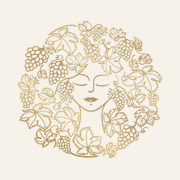
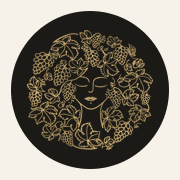
T1 (spec 018): ícono de la web con el isotipo sobre círculo casi negro; spec implementada
Claude-Session: https://claude.ai/code/session_0121hkByLkvRCkxcCrMvdbNS

diff --git a/tests/unit/icono.test.ts b/tests/unit/icono.test.ts
@@ -14,6 +14,12 @@ function tamanosIco(ico: Buffer) {
   return Array.from({ length: ico.readUInt16LE(4) }, (_, i) => ico[6 + i * 16] || 256);
 }
 
+/** RGBA de un píxel; si es transparente, solo el alfa. */
+async function pixel(archivo: string, x: number, y: number) {
+  const { data } = await sharp(archivo).ensureAlpha().extract({ left: x, top: y, width: 1, height: 1 }).raw().toBuffer({ resolveWithObject: true });
+  return data[3] === 0 ? [0] : [...data];
+}
+
 describe("ícono de la web", () => {
   it("favicon.ico no es el de Next.js y trae 16, 32 y 48 px", () => {
     const ico = readFileSync(join(app, "favicon.ico"));
@@ -21,16 +27,20 @@ describe("ícono de la web", () => {
     expect(tamanosIco(ico).sort((a, b) => a - b)).toEqual([16, 32, 48]);
   });
 
-  it("icon.png: 512 px, cuadrado y transparente", async () => {
-    const m = await sharp(join(app, "icon.png")).metadata();
+  it("icon.png: 512 px, el isotipo sobre un círculo casi negro con las esquinas transparentes", async () => {
+    const archivo = join(app, "icon.png");
+    const m = await sharp(archivo).metadata();
     expect([m.width, m.height, m.hasAlpha]).toEqual([512, 512, true]);
+    expect(await pixel(archivo, 2, 2)).toEqual([0]);
+    // Borde del círculo (fuera del dibujo): casi negro.
+    expect(await pixel(archivo, 256, 12)).toEqual([0x1b, 0x1a, 0x17, 255]);
   });
 
-  it("apple-icon.png: 180 px, cuadrado y sin transparencia (fondo crema)", async () => {
+  it("apple-icon.png: 180 px, sin transparencia: el círculo sobre crema", async () => {
     const archivo = join(app, "apple-icon.png");
     const m = await sharp(archivo).metadata();
     expect([m.width, m.height]).toEqual([180, 180]);
-    const { data } = await sharp(archivo).ensureAlpha().extract({ left: 0, top: 0, width: 1, height: 1 }).raw().toBuffer({ resolveWithObject: true });
-    expect([...data]).toEqual([0xf6, 0xf2, 0xe9, 255]);
+    expect(await pixel(archivo, 0, 0)).toEqual([0xf6, 0xf2, 0xe9, 255]);
+    expect(await pixel(archivo, 90, 20)).toEqual([0x1b, 0x1a, 0x17, 255]);
   });
 });

diff --git a/tests/e2e/icono.spec.ts b/tests/e2e/icono.spec.ts
@@ -1,0 +1,17 @@
+import { expect, test } from "@playwright/test";
+
+// Spec 018, CA-1: la carta enlaza el ícono de la marca (pestaña, Android e iPhone).
+test("la carta enlaza favicon, icon y apple-touch-icon, y responden", async ({ page, request }) => {
+  await page.goto("/");
+  const enlaces = await page.locator('head link[rel="icon"], head link[rel="apple-touch-icon"]').evaluateAll((ls) =>
+    ls.map((l) => ({ rel: l.getAttribute("rel"), href: (l as HTMLLinkElement).href })),
+  );
+  expect(enlaces.some((e) => e.rel === "icon" && /favicon\.ico/.test(e.href))).toBe(true);
+  expect(enlaces.some((e) => e.rel === "icon" && /icon\.png/.test(e.href))).toBe(true);
+  expect(enlaces.some((e) => e.rel === "apple-touch-icon" && /apple-icon\.png/.test(e.href))).toBe(true);
+  for (const { href } of enlaces) {
+    const r = await request.get(href);
+    expect(r.status(), href).toBe(200);
+    expect(r.headers()["content-type"]).toMatch(/image\//);
+  }
+});

diff --git a/specs/018-icono/design.md b/specs/018-icono/design.md
@@ -5,14 +5,16 @@
 - `app/icon.png` (512 px) y `app/apple-icon.png` (180 px): Next.js agrega solo las
   etiquetas `<link rel="icon">` y `<link rel="apple-touch-icon">`.
 - Se generan con `npm run icono` (`scripts/icono.mjs`, sharp) a partir del isotipo
-  `assets/marca/isotipo.png` (PNG transparente, 1200 px): recortado a su dibujo y
-  centrado en un cuadrado. Pestaña e `icon.png`: fondo transparente. `apple-icon.png`:
-  sobre crema (#F6F2E9) con margen del 10 % (iOS rellena la transparencia de negro).
+  `assets/marca/isotipo.png` (PNG transparente, 1200 px): recortado a su dibujo, al 80 %
+  de un círculo casi negro (#1B1A17). Pestaña e `icon.png`: esquinas transparentes.
+  `apple-icon.png`: el círculo sobre crema (#F6F2E9) con margen del 6 % (iOS rellena la
+  transparencia de negro). PNG con paleta para que pesen poco.
   Los archivos generados quedan en el repositorio.
 
 ## Riesgos
-- El isotipo es un dibujo de líneas finas: a 16 px se ve como un círculo dorado (se
-  reconoce por la forma y el color, no por el detalle).
+- El isotipo es un dibujo de líneas finas: a 16–32 px se ve como un círculo dorado sobre
+  negro (se reconoce por la forma y el color, no por el detalle). Sin el círculo, en las
+  pestañas claras casi no se veía (opción descartada).
 - Los navegadores guardan el ícono mucho tiempo: después de publicar puede tardar en
   cambiar (se ve al abrir en una ventana privada o borrando el historial del sitio).
 

diff --git a/specs/018-icono/requirements.md b/specs/018-icono/requirements.md
@@ -1,6 +1,6 @@
 # 018 – Ícono de la web
 
-**Estado:** Aprobada (2026-11-11)
+**Estado:** Implementada (2026-11-11)
 
 ## Objetivo
 Que la pestaña del navegador, los favoritos y el acceso directo del celular muestren el
@@ -14,10 +14,12 @@ Que la pestaña del navegador, los favoritos y el acceso directo del celular mue
 ### CA-1: Ícono de la marca
 - **Dado** la carta o el panel abiertos en el navegador
 - **Cuando** se mira la pestaña
-- **Entonces** se ve el isotipo de Lehonor (el rostro con hojas y uvas, en dorado) y no
-  el triángulo de Vercel.
-- Y hay versiones de 16, 32 y 48 px (pestaña, fondo transparente), 180 px (iPhone,
-  "Agregar a inicio", sobre crema porque iOS no admite transparencia) y 512 px (Android).
+- **Entonces** se ve el isotipo de Lehonor (el rostro con hojas y uvas, en dorado) sobre
+  un círculo casi negro (#1B1A17), y no el triángulo de Vercel. El círculo hace que el
+  dorado se lea en pestañas claras y oscuras (elegido el 2026-11-11).
+- Y hay versiones de 16, 32 y 48 px (pestaña, esquinas transparentes), 180 px (iPhone,
+  "Agregar a inicio": el círculo sobre crema, porque iOS no admite transparencia) y
+  512 px (Android).
 
 ## Fuera de alcance
 - Cambiar el ícono desde el panel (por ahora es un archivo fijo de la marca).

diff --git a/specs/018-icono/tasks.md b/specs/018-icono/tasks.md
@@ -1,3 +1,3 @@
 # 018 – Tareas
 
-- [ ] T1 — Script del ícono, `favicon.ico`, `icon.png` y `apple-icon.png`; unit + e2e (CA-1)
+- [x] T1 — Script del ícono, `favicon.ico`, `icon.png` y `apple-icon.png`; unit + e2e (CA-1)
